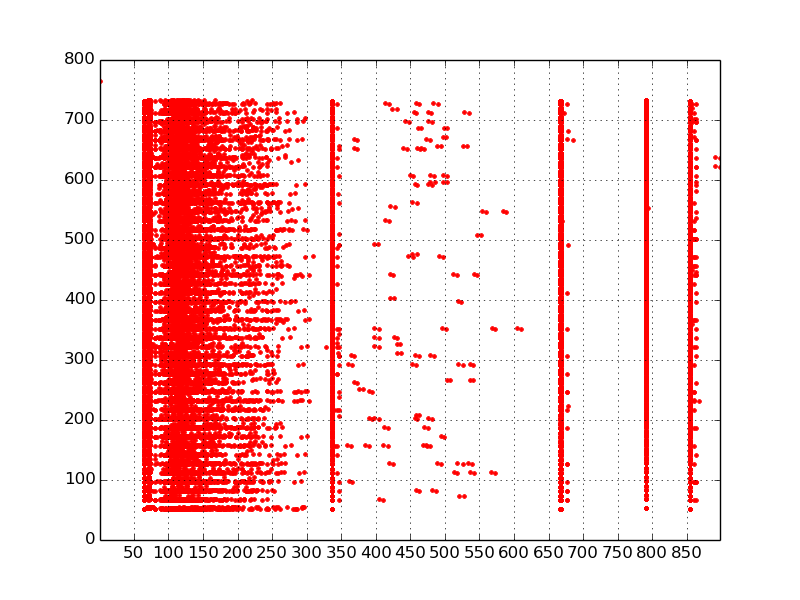
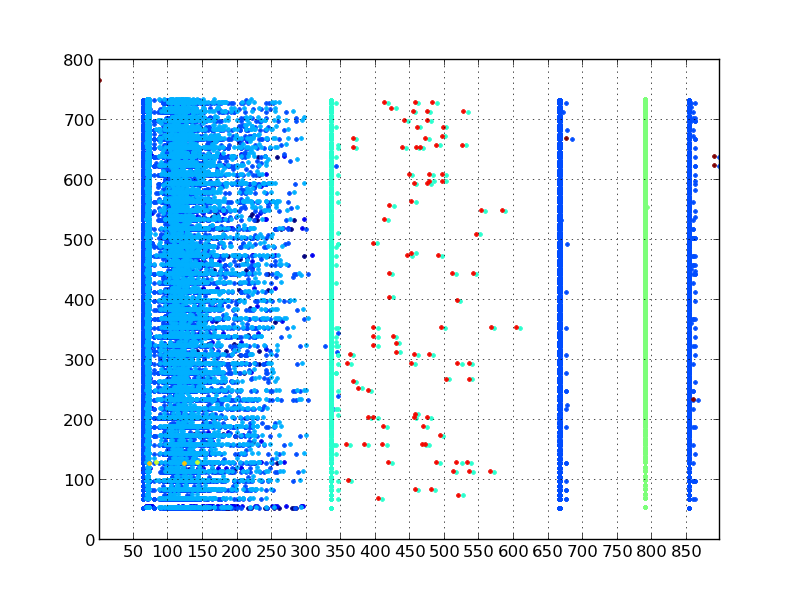
better with different colors per font

diff --git a/livres-pap-IF-tandemlibre/convert-2005.py b/livres-pap-IF-tandemlibre/convert-2005.py
@@ -11,8 +11,8 @@ drawMap = False
 if len(sys.argv) > 2:
     drawMap = True
 
-topvals = []
-leftvals = []
+topvals = {}
+leftvals = {}
 results = []
 type_map = {'a': 'Arts',
             'a-l': 'Arts;Lettres',
@@ -51,17 +51,21 @@ for line in (xml+('\n<text top="820" left="1" font="10">a</text>')).split("\n"):
     if not attrs or not attrs.groups():
         print "WARNING : line detected with good font but wrong format %s" % line
         continue
+    font = int(attrs.group(3))
     top = int(attrs.group(1))
     if top < 115 or top > 820:
         continue
-    topvals.append(top)
+    if not font in topvals:
+        topvals[font] = []
+    topvals[font].append(top)
     left = int(attrs.group(2))
     if oddpage:
         left += 21
-    leftvals.append(left)
+    if not font in leftvals:
+        leftvals[font] = []
+    leftvals[font].append(left)
     if drawMap:
         continue
-    font = int(attrs.group(3))
     text = attrs.group(4).replace("&amp;", "&")
     #print "DEBUG %s %s %s %s" % (font, left, top, text)
     if save or left < lastleft - 300:
@@ -142,13 +146,15 @@ else:
     matplotlib.use('Agg')
     import matplotlib.pyplot as plt
     import numpy as np
+    from matplotlib import cm
 
     filename = "2005-2007"
     fig = plt.figure()
     ax = fig.add_subplot(111)
     ax.grid(True, fillstyle='left')
     plt.xticks(np.arange(-150, 1450, 50))
-    ax.plot(leftvals, topvals, 'ro', marker=".")
+    for font in leftvals:
+        ax.plot(leftvals[font], topvals[font], 'ro', color=cm.jet(1.*font/len(leftvals)), marker=".")
     fig.savefig("%s.png" % filename)
     fig.clf()
     plt.close(fig)

diff --git a/livres-pap-IF-tandemlibre/convert-1990.py b/livres-pap-IF-tandemlibre/convert-1990.py
@@ -11,8 +11,8 @@ drawMap = False
 if len(sys.argv) > 2:
     drawMap = True
 
-topvals = []
-leftvals = []
+topvals = {}
+leftvals = {}
 results = []
 type_map = {'a': 'Arts',
             'a-l': 'Arts;Lettres',
@@ -51,17 +51,21 @@ for line in (xml+('\n<text top="765" left="1" font="10">a</text>')).split("\n"):
     if not attrs or not attrs.groups():
         print "WARNING : line detected with good font but wrong format %s" % line
         continue
+    font = int(attrs.group(3))
     top = int(attrs.group(1))
     if top < 26 or top > 765:
         continue
-    topvals.append(top)
+    if not font in topvals:
+        topvals[font] = []
+    topvals[font].append(top)
     left = int(attrs.group(2))
     if oddpage:
         left += 21
-    leftvals.append(left)
+    if not font in leftvals:
+        leftvals[font] = []
+    leftvals[font].append(left)
     if drawMap:
         continue
-    font = int(attrs.group(3))
     text = attrs.group(4).replace("&amp;", "&")
     #print "DEBUG %s %s %s %s" % (font, left, top, text)
     if save or left < lastleft - 300:
@@ -142,13 +146,15 @@ else:
     matplotlib.use('Agg')
     import matplotlib.pyplot as plt
     import numpy as np
+    from matplotlib import cm
 
     filename = "1990-2005"
     fig = plt.figure()
     ax = fig.add_subplot(111)
     ax.grid(True, fillstyle='left')
     plt.xticks(np.arange(-150, 1450, 50))
-    ax.plot(leftvals, topvals, 'ro', marker=".")
+    for font in leftvals:
+        ax.plot(leftvals[font], topvals[font], 'ro', color=cm.jet(1.*font/len(leftvals)), marker=".")
     fig.savefig("%s.png" % filename)
     fig.clf()
     plt.close(fig)
